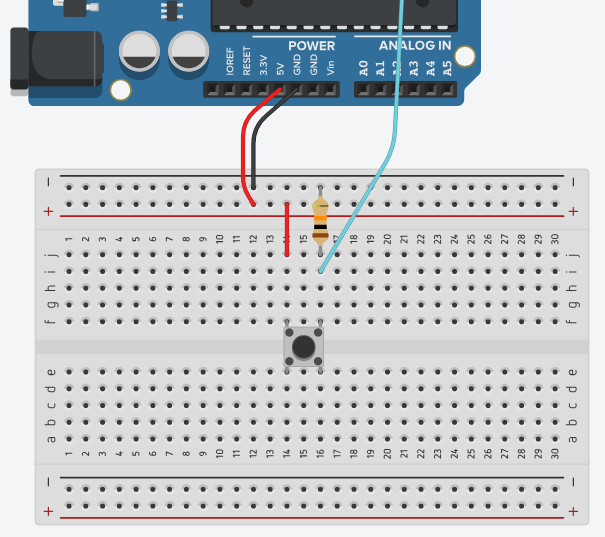
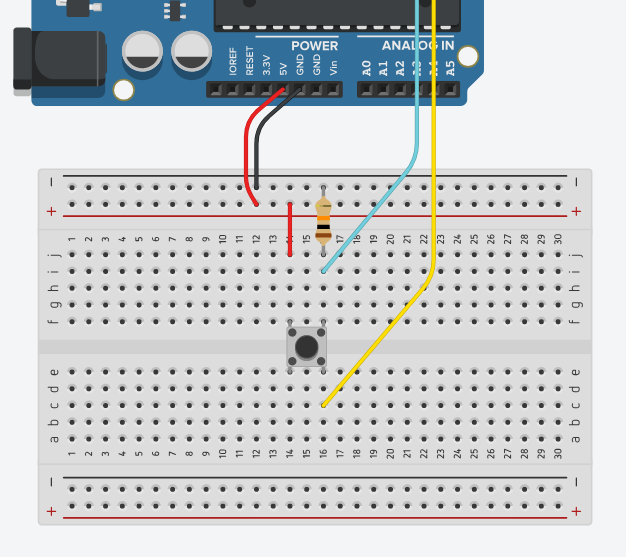
Add pictures, improve gamepad doc

diff --git a/gamepad/README.md b/gamepad/README.md
@@ -21,31 +21,34 @@ Tarvitset myös [sarjaliikenteen kuuntelijan]().
 
 ## Ohjeet
 > **Huomaa**: ohjeet eivät ole tarkasti tiettyä konfiguraatiota varten,
-> vaan ohjeet pääosin selittävät miten osia yhdistetään
-> Hyödynnä ohjeita osiesi ja osaamisesi mukaan
+> vaan ohjeet pääosin selittävät miten osia yhdistetään.
+> Hyödynnä ohjeita osiesi ja osaamisesi mukaan!
 
 ### Näin kytket ja ohjelmoit napin
-![](https://github.com/Pohjois-Tapiolan-lukio/arduino-projects/tree/master/gamepad/nappeja.jpg)
+![](nappeja.jpg)
 > Digitaalisia kaksiasentoisia nappeja
 
-![](https://www.shallowsky.com/arduino/class/buttonlegsdiag.jpg)
+![](buttonlegsdiag.jpg)
 > 4-jalkainen nappi
-- kun painat napista, niin kaikki napin muodostavat yhteisen kytkennän
+- kun painat napista, niin kaikki napin jalat muodostavat yhteisen kytkennän
 
-![](https://github.com/Pohjois-Tapiolan-lukio/arduino-projects/tree/master/gamepad/4jalkapiiri.png)
+![](4jalkapiiri.png)
 > 4-jalkaisen napin kytkentäkaavio
 - nappi kytketään alustaan keskelle
+> Vaaleansininen ja keltainen johto kuljettavat identtistä signaalia!
 
+---
 - 2-jalkaisten nappien jalat muodostavat kytkennän napin painalluksesta.
 
 Napeille on oleellista olla *alasvetovastus*, jotta napin mittauskannan
 (jossa kaaviossa on vaaleansininen johto) potentiaali on aina joko 5V (päällä)
-tai 0V (pois päältä). Jos vastus on liian pieni tai vastuksen tilalla on johto,
-niin napin painallus aiheuttaa oikosulun Arduinon virtalähteeseen.
+tai 0V (pois päältä) eikä jää ns. kellumaan välille. Jos vastus on liian pieni
+tai vastuksen tilalla on johto, niin napin painallus aiheuttaa oikosulun
+Arduinon virtalähteeseen.
 
 > Tällainen oikosulku ei vaurioita itse Arduinoa
 
-##### Arduino
+##### Arduinon ohjelmointi
 4-jalkaiset ja 2-jalkaiset napit käyttäytyvät identtisesti koodin näkökulmasta
 
 Määritellään napin mittauskannan pinni
@@ -61,19 +64,14 @@ Määritellään napin pinnin numero Arduinon `setup`-*rutiinissa* syötteeksi
 pinMode(NAPPI1, INPUT);
 ```
 
-Syötettä voidaan hakea jatkuvasti `loop`-*rutiinin* sisällä
+Digitaalisen signaalin syötettä voidaan hakea funktiolla
 ```cpp
 digitalRead(NAPPI1);
 ```
-
-> Arduino-koodissa määriteltiin kokonaisluku-muuttuja avainsanalla `int`
-
-``` cpp
-int arvo1 = digitalRead(NAPPI1);
-```
+> Syötettä voidaan esimerkiksi hakea jatkuvasti `loop`-*rutiinin* sisällä
 
 ### Näin kytket joystickin
-![](https://github.com/Pohjois-Tapiolan-lukio/arduino-projects/tree/master/gamepad/joystick.png)
+![](joystick.jpg)
 > Joystick, jossa on kaksi potentiometriä ja yksi nappi
 
 ## Esimerkki
